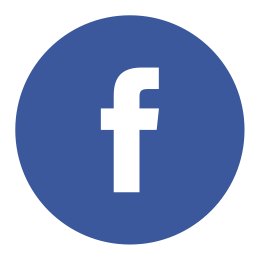
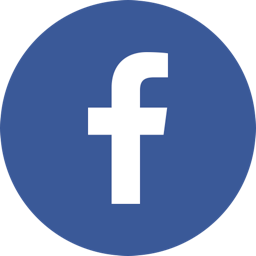
Add register links and fb page link

Changed region(s): [[0.0, 0.0, 1.0, 1.0], [0.3438, 0.1875, 0.6562, 0.8125]]

diff --git a/index.html b/index.html
@@ -14,13 +14,12 @@
 	<body>
 		<div class="container">
 			<header class="clearfix">
-				<span>Blueprint <span class="bp-icon bp-icon-about" data-content="The Blueprints are a collection of basic and minimal website concepts, components, plugins and layouts with minimal style for easy adaption and usage, or simply for inspiration."></span></span>
 				<h1>Triquetra</h1>
 				<nav>
-					<a href="http://tympanus.net/Blueprints/FullWidthTabs/" class="bp-icon bp-icon-prev" data-info="previous Blueprint"><span>Previous Blueprint</span></a>
+					<a class="bp-nav__item bp-icon bp-icon--fb" data-info="Triquetra Facebook Page" href="https://www.facebook.com/triquetrasportsfest/" target="_blank"><span>Triquetra Facebook Page</span></a>
 					<!--a href="" class="bp-icon bp-icon-next" data-info="next Blueprint"><span>Next Blueprint</span></a-->
-					<a href="http://tympanus.net/codrops/?p=18699" class="bp-icon bp-icon-drop" data-info="back to the Codrops article"><span>back to the Codrops article</span></a>
-					<a href="http://tympanus.net/codrops/category/blueprints/" class="bp-icon bp-icon-archive" data-info="Blueprints archive"><span>Go to the archive</span></a>
+					<a href="https://docs.google.com/a/iiitd.ac.in/forms/d/1Vdwr02kwuQWpkkvnp531FPVl9dIu6v1DkowJ9P_sYMY/edit?usp=drive_web" class="bp-icon bp-icon-reg1" data-info="Register for Team Sport"><span>Register for Team Sport</span></a>
+					<a href="http://tympanus.net/codrops/category/blueprints/" class="bp-icon bp-icon-reg2" data-info="Register for Individual Sport"><span>Register for Individual Sport</span></a>
 				</nav>
 			</header>
 			<div id="grid-gallery" class="grid-gallery">

diff --git a/css/demo.css b/css/demo.css
@@ -150,17 +150,23 @@ a:hover {
 .bp-icon-next:after {
 	content: "\e000";
 }
-.bp-icon-drop:after {
-	content: "\e001";
+.bp-icon-reg1:after {
+	content: '';
+	background-image: url('../img/register.png');
+	background-size: 100% 100%;
 }
-.bp-icon-archive:after {
-	content: "\e002";
+.bp-icon-reg2:after {
+	content: '';
+	background-image: url('../img/register2.png');
+	background-size: 100% 100%;
 }
 .bp-icon-about:after {
 	content: "\e003";
 }
-.bp-icon-prev:after {
-	content: "\e004";
+.bp-icon--fb:after {
+	content: '';
+	background-image: url('../img/fb.png');
+	background-size: 100% 100%;
 }
 
 @media screen and (max-width: 55em) {
